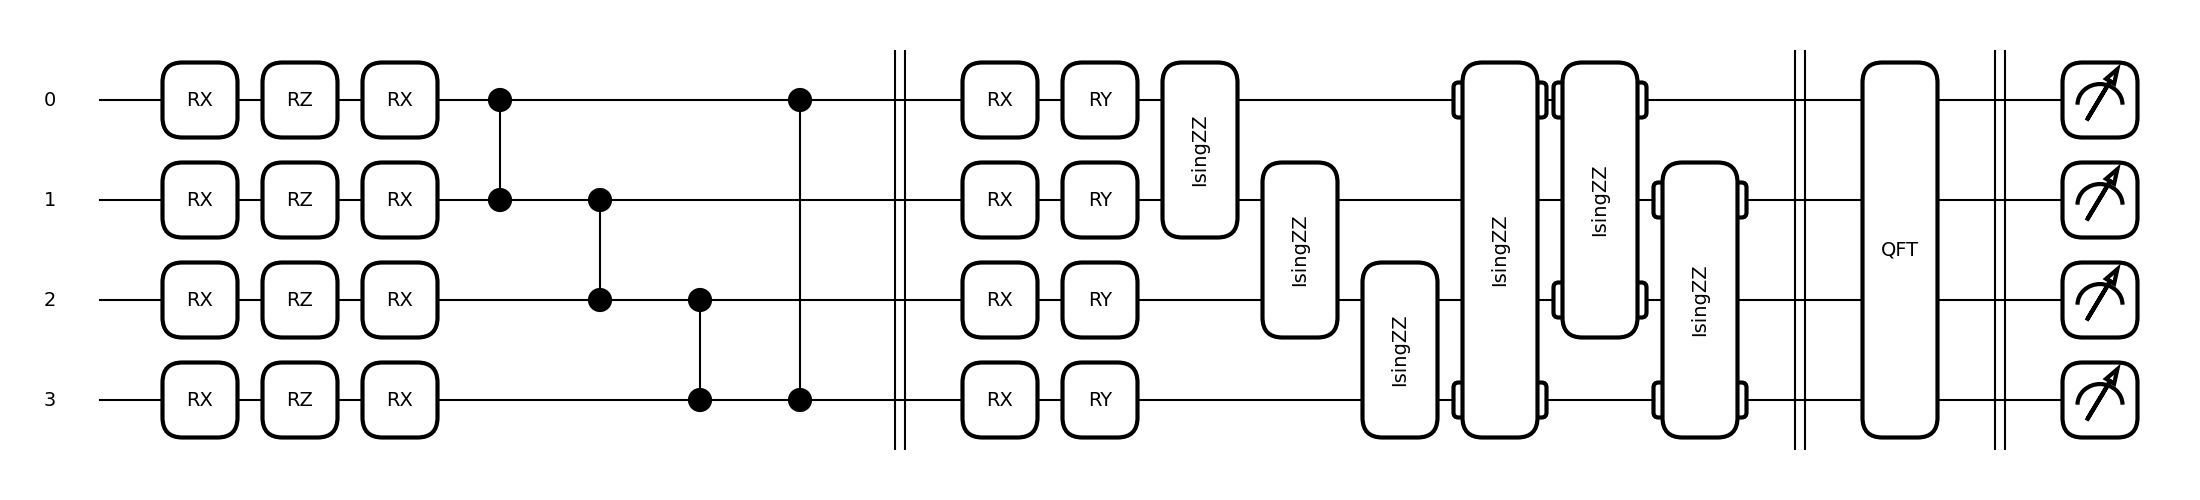
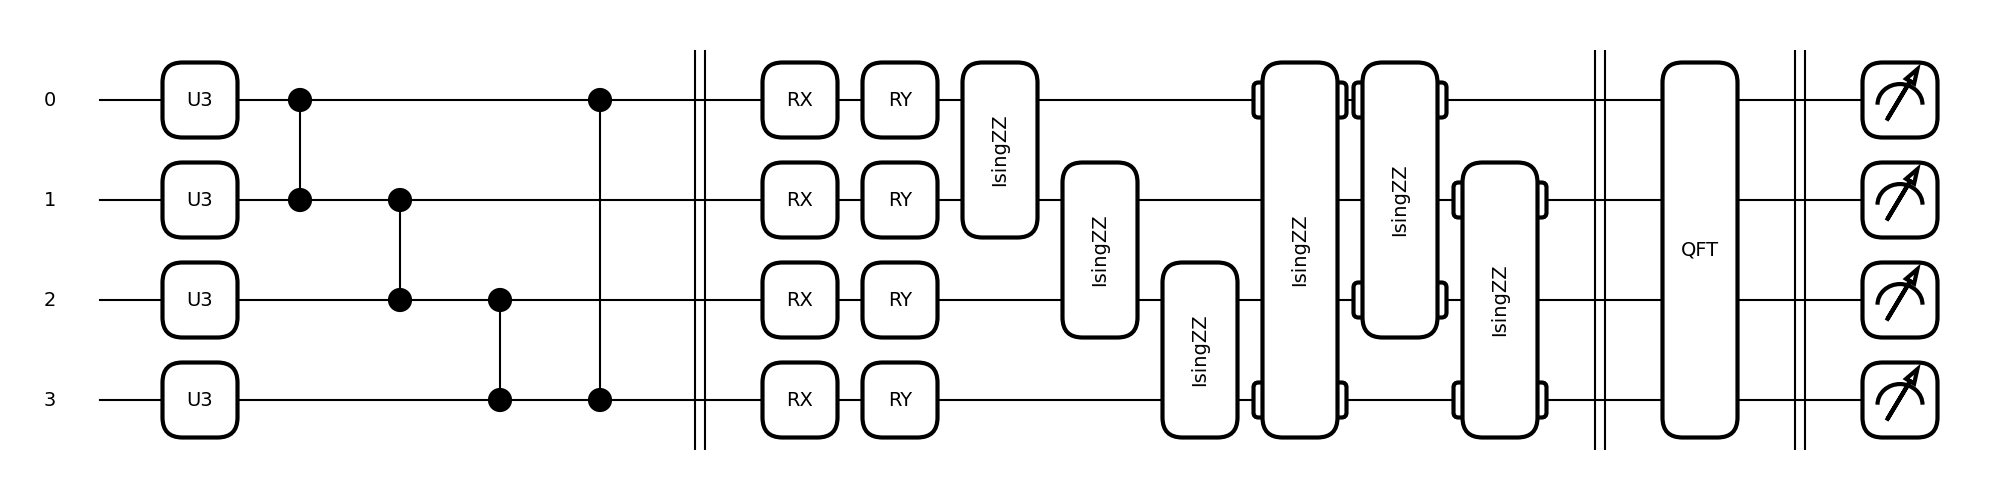
updates

diff --git a/tiny-handwritten-digits/contrastive_learning/with_pennylane/two_by_two_local_patches.py b/tiny-handwritten-digits/contrastive_learning/with_pennylane/two_by_two_local_patches.py
@@ -1,0 +1,77 @@
+import pennylane as qml
+from pennylane import numpy as pnp
+import jax.numpy as jnp
+import numpy as np
+from typing import List, Tuple, Union
+from pennylane.wires import Wires
+import sys
+sys.path.insert(0, '/home/peiyongw/Desktop/Research/QML-ImageClassification')
+
+from two_by_two_patch_D_and_R import FourPixelDepositAndReverse
+
+def TwoByTwoLocalPatches(
+        img_patches: Union[np.ndarray, pnp.ndarray, jnp.ndarray],
+        single_patch_encode_parameters: Union[jnp.ndarray, np.ndarray, pnp.ndarray],
+        single_patch_d_and_r_parameter: Union[jnp.ndarray, np.ndarray, pnp.ndarray],
+        wires: Union[List[int], Wires]
+):
+    """
+    Encode 4 adjacent patches in to the phase of four qubits
+    :param img_patches: four image patches, a 2 by 2 by 4 array
+    :param single_patch_encode_parameters: "θ", 6NL-element array, one-dim, where N is the number of "layers" of data-reuploading and L is the number of D&R repetitions in the single patch D&R
+    :param single_patch_d_and_r_parameter: "φ", L-element array, one-dim, where L is the number of D&R repetitions
+    :param wires: 6 qubits, the first four will have the four local patches encoded as phases on the qubit
+    :return:
+    """
+    assert len(img_patches) == 2
+    assert len(img_patches[0]) == 2
+    assert len(img_patches[1]) == 2
+    patch_count = 0
+    for i in range(2):
+        for j in range(2):
+            FourPixelDepositAndReverse(img_patches[i][j], single_patch_encode_parameters, single_patch_d_and_r_parameter, wires=[wires[patch_count], wires[patch_count + 1], wires[patch_count + 2]])
+            qml.Barrier()
+            patch_count += 1
+
+
+if __name__ == '__main__':
+    import matplotlib.pyplot as plt
+
+    qml.drawer.use_style("black_white")
+
+    wires = Wires([0, 1, 2, 3, 4, 5])
+    dev = qml.device("default.qubit", wires=wires)
+
+
+    def cut_8x8_to_2x2(img: np.ndarray):
+        # img: 8x8 image
+        # return: 4x4x4 array, each element in the first 4x4 is a flattened patch
+        patches = np.zeros((4, 4, 4))
+        for i in range(4):
+            for j in range(4):
+                patches[i, j] = img[2 * i:2 * i + 2, 2 * j:2 * j + 2].flatten()
+        return patches
+
+
+    img = np.arange(64).reshape(8, 8)
+    patches = cut_8x8_to_2x2(img)
+    print(patches)
+    print(img)
+    first_four_patches = patches[:2, :2]
+    print(first_four_patches)
+    for i in range(2):
+        for j in range(2):
+            print("Patch ", i, j)
+            print(patches[i * 2:i * 2 + 2, j * 2:j * 2 + 2])
+
+    theta = np.random.randn(6)
+    phi = np.random.randn(1)
+
+    @qml.qnode(dev)
+    def circuit(theta, phi):
+        TwoByTwoLocalPatches(first_four_patches, theta, phi, wires)
+        return qml.state()
+
+    fig, ax = qml.draw_mpl(circuit)(theta, phi)
+    plt.savefig("two_by_two_local_patches_encoded.png")
+    plt.close(fig)

diff --git a/tiny-handwritten-digits/contrastive_learning/with_pennylane/two_by_two_patch_D_and_R.py b/tiny-handwritten-digits/contrastive_learning/with_pennylane/two_by_two_patch_D_and_R.py
@@ -11,8 +11,8 @@ from two_by_two_patch_encode import FourPixelEncodeTwoQubits
 
 def FourPixelDepositAndReverse(
         pixels: Union[list, np.ndarray, pnp.array],
-        encode_parameters: Union[jnp.ndarray, np.ndarray, pnp.array],
-        phase_parameters: Union[jnp.ndarray, np.ndarray, pnp.array],
+        encode_parameters: Union[jnp.ndarray, np.ndarray, pnp.ndarray],
+        phase_parameters: Union[jnp.ndarray, np.ndarray, pnp.ndarray],
         wires: Union[List[int], Wires]
 ):
     """
@@ -23,6 +23,7 @@ def FourPixelDepositAndReverse(
     :return:
     """
     n_layers = len(encode_parameters) // 6
+    qml.Hadamard(wires[0])
     for i in range(n_layers):
         FourPixelEncodeTwoQubits(pixels, encode_parameters[6 * i: 6 * (i + 1)], wires=[wires[1], wires[2]])
         qml.CPhase(phase_parameters[i], wires=[wires[0], wires[1]])
@@ -34,9 +35,9 @@ if __name__ == "__main__":
 
     qml.drawer.use_style("black_white")
 
-    x = np.random.randn(4)
-    theta = np.random.randn(12)
-    phi = np.random.randn(3)
+    x = pnp.random.randn(4)
+    theta = pnp.random.randn(12)
+    phi = pnp.random.randn(3)
     wires = Wires([0, 1, 2])
     dev = qml.device("default.qubit", wires=wires)
 

diff --git a/tiny-handwritten-digits/contrastive_learning/with_pennylane/four_qubit_token_mixing.py b/tiny-handwritten-digits/contrastive_learning/with_pennylane/four_qubit_token_mixing.py
@@ -20,9 +20,7 @@ def FourQubitParameterisedLayer(
     layers = len(parameters) // 12
     for i in range(layers):
         for j in range(4):
-            qml.RX(parameters[12 * i + 3 * j], wires=wires[j])
-            qml.RZ(parameters[12 * i + 3 * j + 1], wires=wires[j])
-            qml.RX(parameters[12 * i + 3 * j + 2], wires=wires[j])
+            qml.U3(parameters[12 * i + 3 * j], parameters[12 * i + 3 * j + 1], parameters[12 * i + 3 * j + 2], wires=wires[j])
         qml.CZ(wires=[wires[0], wires[1]])
         qml.CZ(wires=[wires[1], wires[2]])
         qml.CZ(wires=[wires[2], wires[3]])
